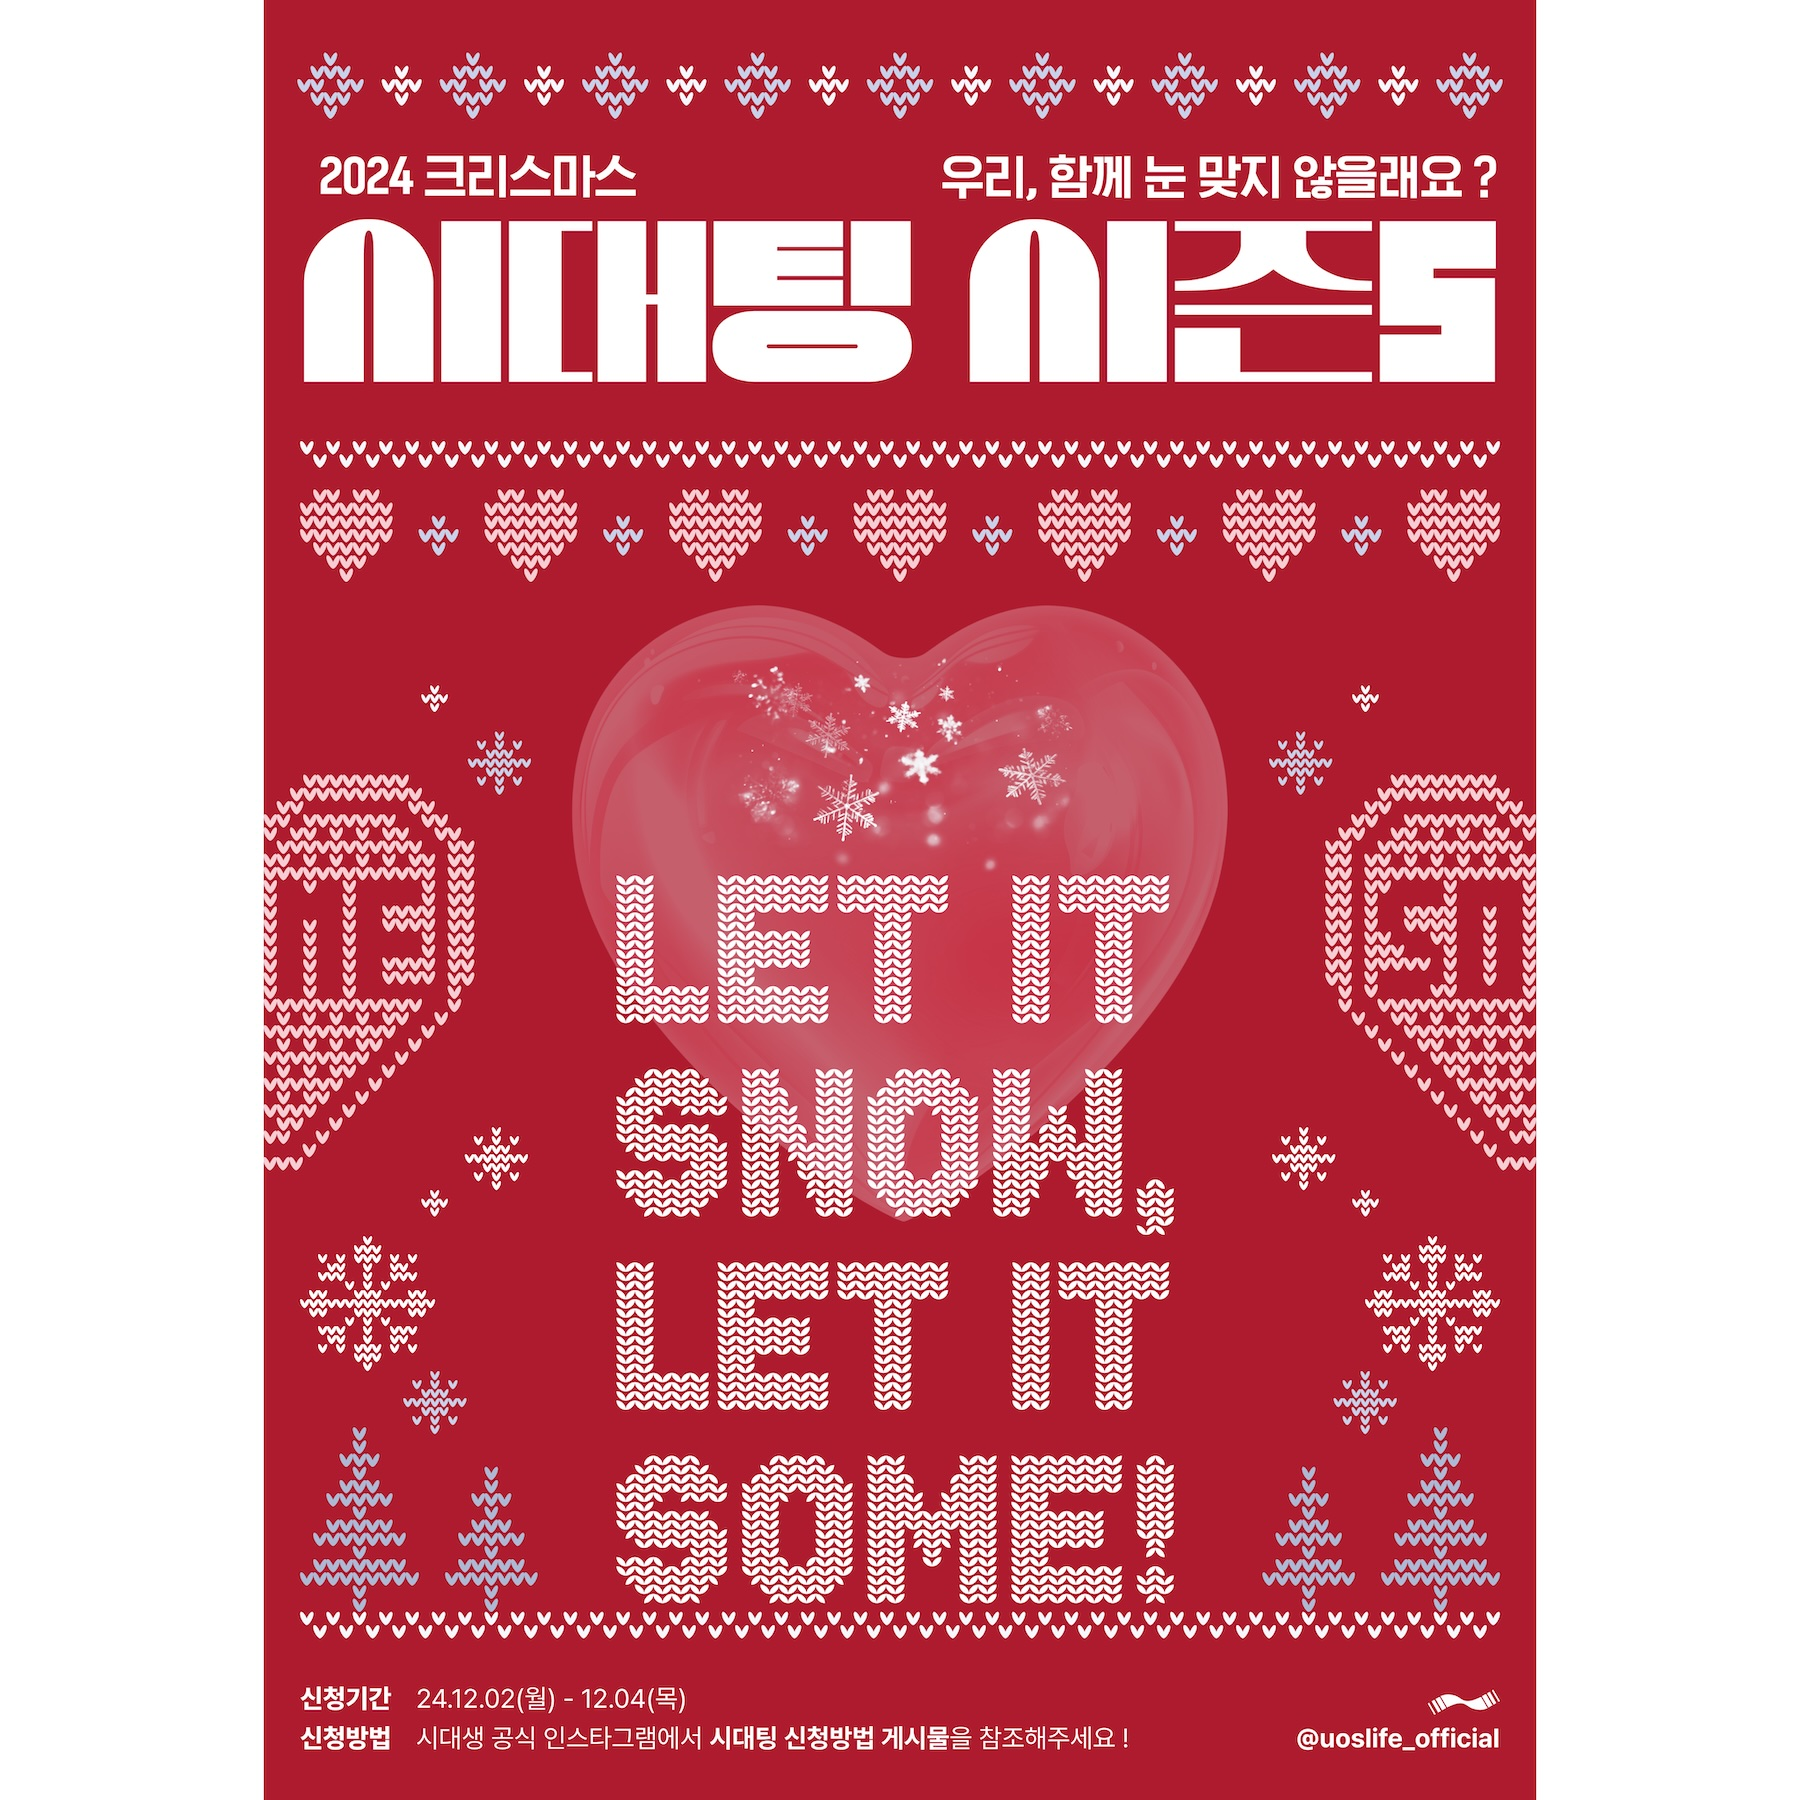
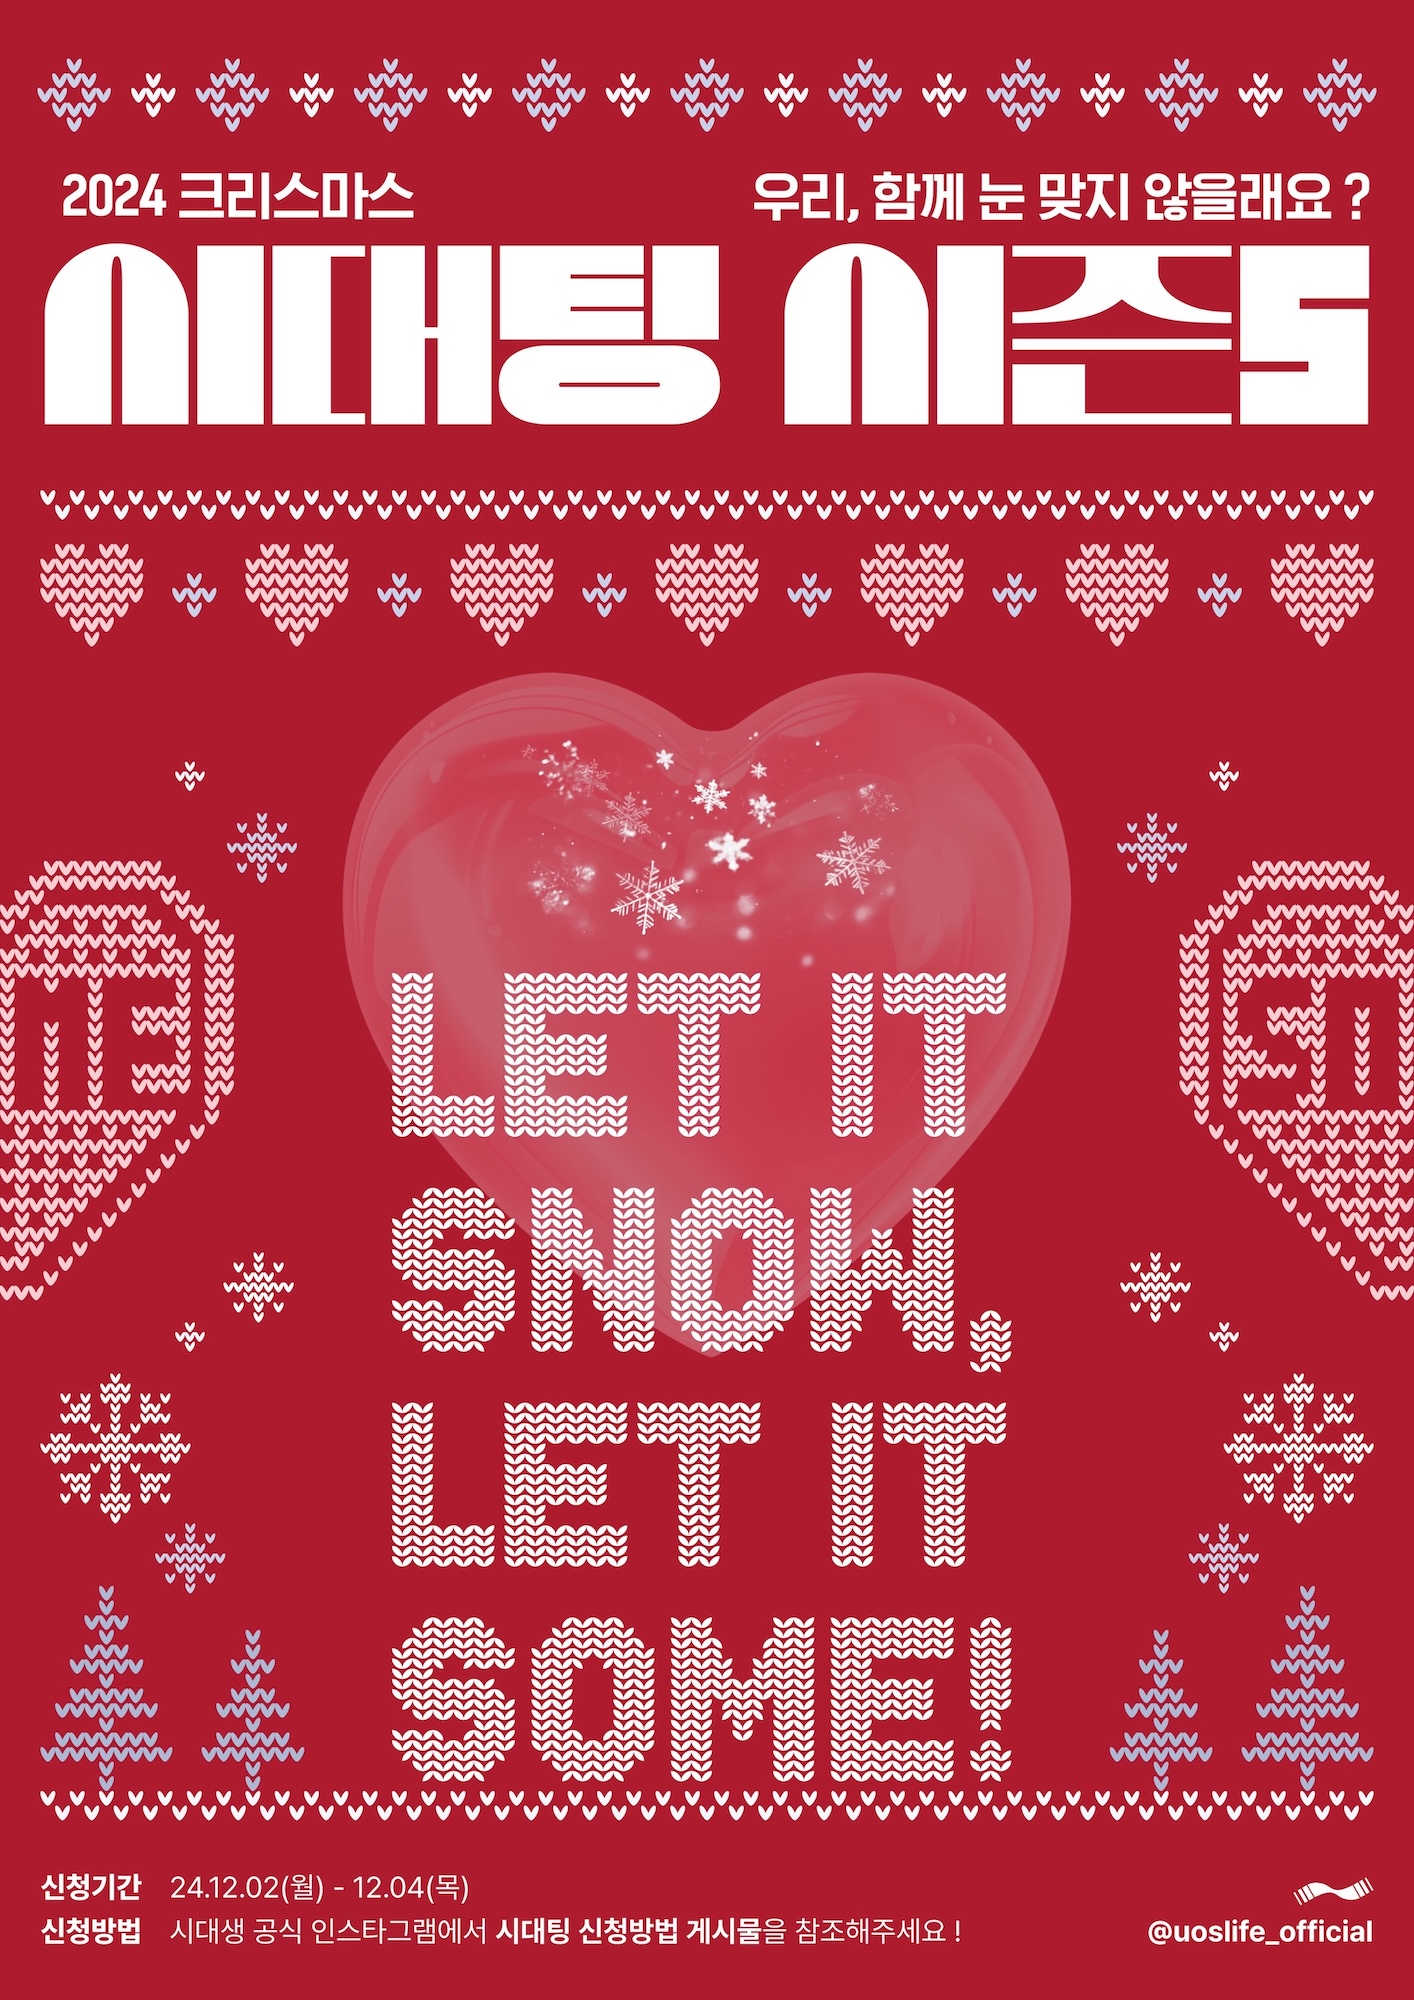
update post

diff --git a/_posts/project/sidaeting5/2024-12-22-sidaeting5-matching-algorithm.md b/_posts/project/sidaeting5/2024-12-22-sidaeting5-matching-algorithm.md
@@ -35,12 +35,13 @@ _시대팅 매칭 절차_
 
 ### 이전 시즌과의 차이점
 
-시즌4에서는 유저가 응답한 모든 항목들에 대해 100% 만족하는 상대를 매칭시켜주도록 **모든 항목에 대해 필터링**을 적용했다. 즉, 모든 항목을 만족하지 않는다면 매칭 상대에서 제외되는 방식이었다. 하지만 이러한 방식은 매칭 성공률을 낮출 가능성이 존재한다.
+시즌4에서는 유저가 응답한 모든 항목들에 대해 100% 만족하는 상대를 매칭시켜주도록 **모든 항목에 대해 필터링**을 적용했다. 즉, 모든 항목을 만족하지 않는다면 매칭 상대에서 제외되는 방식이었다. 하지만 이러한 방식은 매칭 성공률을 낮출 가능성이 존재한다. 따라서 이번 시즌에는 유저가 응답한 항목들은 **점수 계산에만 반영**되도록 하였다.
 
-따라서 이번 시즌에는 유저가 응답한 항목들은 **점수 계산에만 반영**되도록 하였다. 또한 유저가 가장 중요하다고 선택한 한 가지 항목에 대해서는 점수 계산시 **가중치를 부여**하여 계산하도록 하였다.
-
-![image.png](/assets/img/project/sidaeting5/06-matching-algorithm/core-preference.png)
+![image.png](/assets/img/project/sidaeting5/06-matching-algorithm/core-preference.png){: width="40%" style="display: block; margin: auto; "}
 _핵심 선호 항목 선택 페이지_
+
+또한 유저가 가장 중요하다고 선택한 한 가지 항목에 대해서는 점수 계산시 **가중치를 부여**하여 계산하도록 하였다.
+
 
 ### 요구사항 변경
 
@@ -268,7 +269,7 @@ graph LR
 <남성>
 평균 나이: 23.8세
 평균 키: 175.4cm
-주요 MBTI: INTP, INTP, ENTP
+주요 MBTI: INTP, ISTP, ENTP
 선호 얼굴상: 중간
 선호 쌍꺼풀: 유쌍
 선호 MBTI: ENFJ
@@ -279,7 +280,7 @@ graph LR
 <여성>
 평균 나이: 22.5세
 평균 키: 162.5cm
-주요 MBTI: ISTP, ISTP, ISFP
+주요 MBTI: ISTP, INTP, ISFP
 선호 얼굴상: 중간
 선호 쌍꺼풀: 속쌍
 선호 MBTI: ENFJ
@@ -287,7 +288,7 @@ graph LR
 본인 학과 기피 비율: 58.0%
 ```
 
-![course_frequency_wc.png](/assets/img/project/sidaeting5/06-matching-algorithm/course_frequency_wc.png)
+![course_frequency_wc.png](/assets/img/project/sidaeting5/06-matching-algorithm/course_frequency_wc.png){: width="70%" style="display: block; margin: auto; "}
 _유저들이 작성한 데이트 코스를 워드클라우드로 분석한 결과_
 
 ## 참고자료

diff --git a/_posts/project/sidaeting5/2024-12-14-sidaeting5-retrospect.md b/_posts/project/sidaeting5/2024-12-14-sidaeting5-retrospect.md
@@ -5,7 +5,8 @@ categories: [Project, 시대팅5]
 tags: [회고]
 ---
 
-![poster](/assets/img/project/sidaeting5/01-retrospect/poster.jpg)
+![poster](/assets/img/project/sidaeting5/01-retrospect/poster.jpg){: width="70%" style="display: block; margin: auto; "}
+_시대팅 포스터_
 
 ## 배경
 
